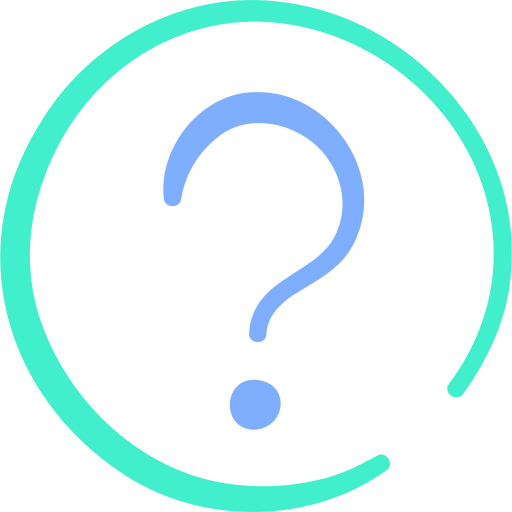
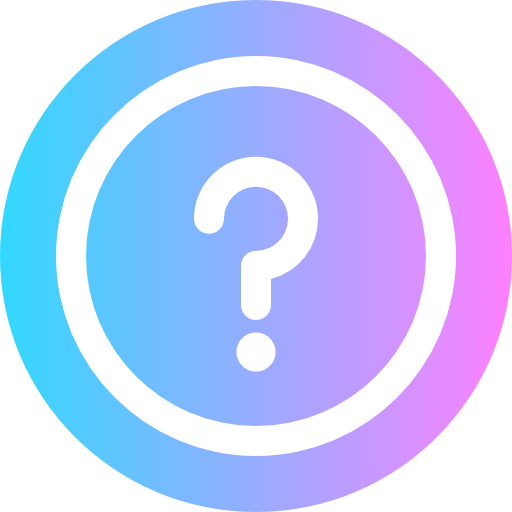
changes bot color scheme, reposition button + bot section9, added bot section3 undersections

diff --git a/Unterseiten/Section3/vaughan.html b/Unterseiten/Section3/vaughan.html
@@ -11,12 +11,7 @@
     <link rel="preconnect" href="https://fonts.googleapis.com">
     <link rel="preconnect" href="https://fonts.gstatic.com" crossorigin>
     <link href="https://fonts.googleapis.com/css2?family=Sacramento&display=swap" rel="stylesheet">
-    <!-- merriweather-regular -->
-    <link rel="preconnect" href="https://fonts.googleapis.com">
-    <link rel="preconnect" href="https://fonts.gstatic.com" crossorigin>
-    <link
-        href="https://fonts.googleapis.com/css2?family=Merriweather+Sans:ital,wght@0,300..800;1,300..800&family=Montserrat:ital,wght@0,100..900;1,100..900&family=Sacramento&display=swap"
-        rel="stylesheet">
+
     <!-- montserrat-regular -->
     <link rel="preconnect" href="https://fonts.googleapis.com">
     <link rel="preconnect" href="https://fonts.gstatic.com" crossorigin>
@@ -52,6 +47,7 @@
         </div>
     </nav>
     <section>
+        <img class="bot" src="../../Bilder/faq.png" alt="">
         <div class="card custom-card2" id="s3" style="width:550px; height: 550px;">
             <div class="card-body">
                 <a href="../../index.html#section3">

diff --git a/Unterseiten/Section3/perlman.html b/Unterseiten/Section3/perlman.html
@@ -11,12 +11,7 @@
     <link rel="preconnect" href="https://fonts.googleapis.com">
     <link rel="preconnect" href="https://fonts.gstatic.com" crossorigin>
     <link href="https://fonts.googleapis.com/css2?family=Sacramento&display=swap" rel="stylesheet">
-    <!-- merriweather-regular -->
-    <link rel="preconnect" href="https://fonts.googleapis.com">
-    <link rel="preconnect" href="https://fonts.gstatic.com" crossorigin>
-    <link
-        href="https://fonts.googleapis.com/css2?family=Merriweather+Sans:ital,wght@0,300..800;1,300..800&family=Montserrat:ital,wght@0,100..900;1,100..900&family=Sacramento&display=swap"
-        rel="stylesheet">
+
     <!-- montserrat-regular -->
     <link rel="preconnect" href="https://fonts.googleapis.com">
     <link rel="preconnect" href="https://fonts.gstatic.com" crossorigin>
@@ -52,6 +47,7 @@
         </div>
     </nav>
     <section>
+        <img class="bot" src="../../Bilder/faq.png" alt="">
         <div class="card custom-card2" id="s3">
             <div class="card-body">
                 <a href="../../index.html#section3">

diff --git a/Unterseiten/Section3/goldwasser.html b/Unterseiten/Section3/goldwasser.html
@@ -11,12 +11,6 @@
     <link rel="preconnect" href="https://fonts.googleapis.com">
     <link rel="preconnect" href="https://fonts.gstatic.com" crossorigin>
     <link href="https://fonts.googleapis.com/css2?family=Sacramento&display=swap" rel="stylesheet">
-    <!-- merriweather-regular -->
-    <link rel="preconnect" href="https://fonts.googleapis.com">
-    <link rel="preconnect" href="https://fonts.gstatic.com" crossorigin>
-    <link
-        href="https://fonts.googleapis.com/css2?family=Merriweather+Sans:ital,wght@0,300..800;1,300..800&family=Montserrat:ital,wght@0,100..900;1,100..900&family=Sacramento&display=swap"
-        rel="stylesheet">
     <!-- montserrat-regular -->
     <link rel="preconnect" href="https://fonts.googleapis.com">
     <link rel="preconnect" href="https://fonts.gstatic.com" crossorigin>
@@ -52,6 +46,7 @@
         </div>
     </nav>
     <section>
+        <img class="bot" src="../../Bilder/faq.png" alt="">
         <div class="card custom-card2" id="s3">
             <div class="card-body">
                 <a href="../../index.html#section3">

diff --git a/Unterseiten/Section3/hamilton.html b/Unterseiten/Section3/hamilton.html
@@ -11,12 +11,6 @@
     <link rel="preconnect" href="https://fonts.googleapis.com">
     <link rel="preconnect" href="https://fonts.gstatic.com" crossorigin>
     <link href="https://fonts.googleapis.com/css2?family=Sacramento&display=swap" rel="stylesheet">
-    <!-- merriweather-regular -->
-    <link rel="preconnect" href="https://fonts.googleapis.com">
-    <link rel="preconnect" href="https://fonts.gstatic.com" crossorigin>
-    <link
-        href="https://fonts.googleapis.com/css2?family=Merriweather+Sans:ital,wght@0,300..800;1,300..800&family=Montserrat:ital,wght@0,100..900;1,100..900&family=Sacramento&display=swap"
-        rel="stylesheet">
     <!-- montserrat-regular -->
     <link rel="preconnect" href="https://fonts.googleapis.com">
     <link rel="preconnect" href="https://fonts.gstatic.com" crossorigin>
@@ -52,6 +46,7 @@
         </div>
     </nav>
     <section>
+        <img class="bot" src="../../Bilder/faq.png" alt="">
         <div class="card custom-card2" id="s3">
             <div class="card-body">
                 <a href="../../index.html#section3">

diff --git a/Unterseiten/Section3/liskov.html b/Unterseiten/Section3/liskov.html
@@ -11,12 +11,7 @@
     <link rel="preconnect" href="https://fonts.googleapis.com">
     <link rel="preconnect" href="https://fonts.gstatic.com" crossorigin>
     <link href="https://fonts.googleapis.com/css2?family=Sacramento&display=swap" rel="stylesheet">
-    <!-- merriweather-regular -->
-    <link rel="preconnect" href="https://fonts.googleapis.com">
-    <link rel="preconnect" href="https://fonts.gstatic.com" crossorigin>
-    <link
-        href="https://fonts.googleapis.com/css2?family=Merriweather+Sans:ital,wght@0,300..800;1,300..800&family=Montserrat:ital,wght@0,100..900;1,100..900&family=Sacramento&display=swap"
-        rel="stylesheet">
+
     <!-- montserrat-regular -->
     <link rel="preconnect" href="https://fonts.googleapis.com">
     <link rel="preconnect" href="https://fonts.gstatic.com" crossorigin>
@@ -52,6 +47,7 @@
         </div>
     </nav>
     <section>
+        <img class="bot" src="../../Bilder/faq.png" alt="">
         <div class="card custom-card2" id="s3" style="height: 550px;
         width: 550px;">
             <div class="card-body">

diff --git a/Unterseiten/Section3/johnson.html b/Unterseiten/Section3/johnson.html
@@ -11,12 +11,6 @@
     <link rel="preconnect" href="https://fonts.googleapis.com">
     <link rel="preconnect" href="https://fonts.gstatic.com" crossorigin>
     <link href="https://fonts.googleapis.com/css2?family=Sacramento&display=swap" rel="stylesheet">
-    <!-- merriweather-regular -->
-    <link rel="preconnect" href="https://fonts.googleapis.com">
-    <link rel="preconnect" href="https://fonts.gstatic.com" crossorigin>
-    <link
-        href="https://fonts.googleapis.com/css2?family=Merriweather+Sans:ital,wght@0,300..800;1,300..800&family=Montserrat:ital,wght@0,100..900;1,100..900&family=Sacramento&display=swap"
-        rel="stylesheet">
     <!-- montserrat-regular -->
     <link rel="preconnect" href="https://fonts.googleapis.com">
     <link rel="preconnect" href="https://fonts.gstatic.com" crossorigin>
@@ -52,6 +46,7 @@
         </div>
     </nav>
     <section>
+        <img class="bot" src="../../Bilder/faq.png" alt="">
         <div class="card custom-card2" id="s3" style="height: 550px;
         width: 550px;">
             <div class="card-body">

diff --git a/Unterseiten/Section3/hopper.html b/Unterseiten/Section3/hopper.html
@@ -11,12 +11,6 @@
   <link rel="preconnect" href="https://fonts.googleapis.com">
   <link rel="preconnect" href="https://fonts.gstatic.com" crossorigin>
   <link href="https://fonts.googleapis.com/css2?family=Sacramento&display=swap" rel="stylesheet">
-  <!-- merriweather-regular -->
-  <link rel="preconnect" href="https://fonts.googleapis.com">
-  <link rel="preconnect" href="https://fonts.gstatic.com" crossorigin>
-  <link
-    href="https://fonts.googleapis.com/css2?family=Merriweather+Sans:ital,wght@0,300..800;1,300..800&family=Montserrat:ital,wght@0,100..900;1,100..900&family=Sacramento&display=swap"
-    rel="stylesheet">
   <!-- montserrat-regular -->
   <link rel="preconnect" href="https://fonts.googleapis.com">
   <link rel="preconnect" href="https://fonts.gstatic.com" crossorigin>
@@ -52,6 +46,7 @@
     </div>
   </nav>
     <section>
+      <img class="bot" src="../../Bilder/faq.png" alt="">
     <div class="card custom-card2" id="s3">
         <div class="card-body">
             <a href="../../index.html#section3"> 

diff --git a/Unterseiten/Section3/lovelace.html b/Unterseiten/Section3/lovelace.html
@@ -11,12 +11,7 @@
   <link rel="preconnect" href="https://fonts.googleapis.com">
   <link rel="preconnect" href="https://fonts.gstatic.com" crossorigin>
   <link href="https://fonts.googleapis.com/css2?family=Sacramento&display=swap" rel="stylesheet">
-  <!-- merriweather-regular -->
-  <link rel="preconnect" href="https://fonts.googleapis.com">
-  <link rel="preconnect" href="https://fonts.gstatic.com" crossorigin>
-  <link
-    href="https://fonts.googleapis.com/css2?family=Merriweather+Sans:ital,wght@0,300..800;1,300..800&family=Montserrat:ital,wght@0,100..900;1,100..900&family=Sacramento&display=swap"
-    rel="stylesheet">
+
   <!-- montserrat-regular -->
   <link rel="preconnect" href="https://fonts.googleapis.com">
   <link rel="preconnect" href="https://fonts.gstatic.com" crossorigin>
@@ -52,6 +47,7 @@
     </div>
   </nav>
   <section>
+    <img class="bot" src="../../Bilder/faq.png" alt="">
     <div class="card custom-card2" id="s3">
       <div class="card-body">
         <a href="../../index.html#section3">

diff --git a/Unterseiten/Section9/html.html b/Unterseiten/Section9/html.html
@@ -11,12 +11,7 @@
   <link rel="preconnect" href="https://fonts.googleapis.com">
   <link rel="preconnect" href="https://fonts.gstatic.com" crossorigin>
   <link href="https://fonts.googleapis.com/css2?family=Sacramento&display=swap" rel="stylesheet">
-  <!-- merriweather-regular -->
-  <link rel="preconnect" href="https://fonts.googleapis.com">
-  <link rel="preconnect" href="https://fonts.gstatic.com" crossorigin>
-  <link
-    href="https://fonts.googleapis.com/css2?family=Merriweather+Sans:ital,wght@0,300..800;1,300..800&family=Montserrat:ital,wght@0,100..900;1,100..900&family=Sacramento&display=swap"
-    rel="stylesheet">
+
   <!-- montserrat-regular -->
   <link rel="preconnect" href="https://fonts.googleapis.com">
   <link rel="preconnect" href="https://fonts.gstatic.com" crossorigin>

diff --git a/Unterseiten/Section9/javascript.html b/Unterseiten/Section9/javascript.html
@@ -11,12 +11,7 @@
   <link rel="preconnect" href="https://fonts.googleapis.com">
   <link rel="preconnect" href="https://fonts.gstatic.com" crossorigin>
   <link href="https://fonts.googleapis.com/css2?family=Sacramento&display=swap" rel="stylesheet">
-  <!-- merriweather-regular -->
-  <link rel="preconnect" href="https://fonts.googleapis.com">
-  <link rel="preconnect" href="https://fonts.gstatic.com" crossorigin>
-  <link
-    href="https://fonts.googleapis.com/css2?family=Merriweather+Sans:ital,wght@0,300..800;1,300..800&family=Montserrat:ital,wght@0,100..900;1,100..900&family=Sacramento&display=swap"
-    rel="stylesheet">
+
   <!-- montserrat-regular -->
   <link rel="preconnect" href="https://fonts.googleapis.com">
   <link rel="preconnect" href="https://fonts.gstatic.com" crossorigin>

diff --git a/Unterseiten/Section9/section9.css b/Unterseiten/Section9/section9.css
@@ -27,7 +27,7 @@ h2{
     align-items: center; 
     justify-content: center; 
     text-align: center;
-    bottom: 100px;
+    top: 100px;
     right: 0px;
     width: 150px;
     height: 50px;
@@ -56,5 +56,6 @@ h5{
     padding-top: 20px;
     color: rgb(104, 106, 107);
 }
-
-
+.bot{
+    top: 25px; 
+}
